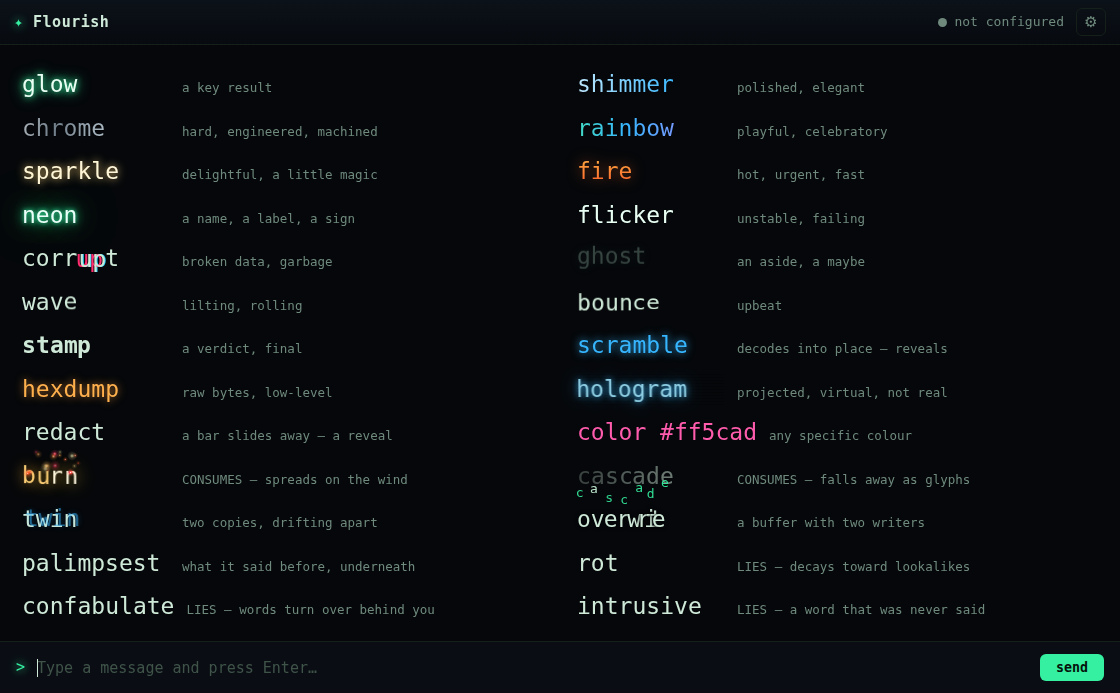
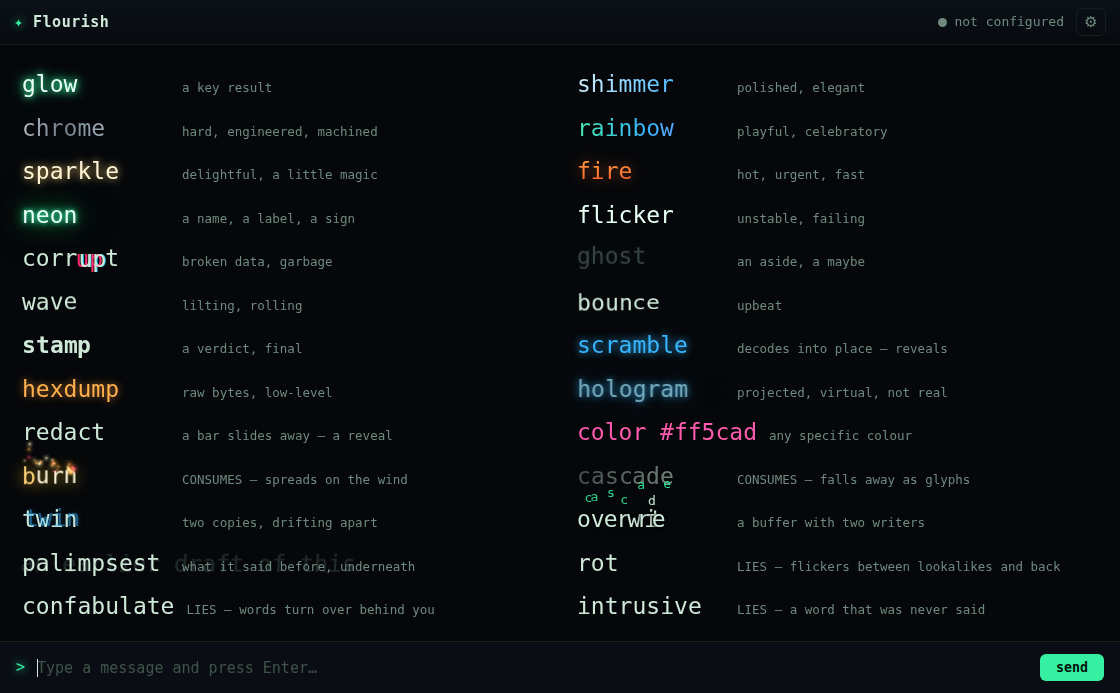
rot: text that won't sit still, instead of text that dies
Jim: "i hate the disintegrating text, change it for similar characters
that flicker back and fourth".

rot was a decay. Every character walked a one-way chain toward '.'
(a → o → c → .) dimming toward the background at each step, so a
paragraph didn't wobble — it eroded into punctuation and then into
nothing. The shelf-life reading was deliberate, but watching a line
crumble is the part nobody liked.

Now each character flicks between its own lookalikes and back —
o↔0, l↔1, b↔6 — a few fast flips, then it lands on the truth. Never
touches colour, never changes length, always ends as written.

  ROT_CHAINS -> ROT_GROUPS: one-way chains become closed families of
  glyphs grouped by shape. The chains had to terminate, so rotNext /
  rotDepth / rotTerminates / ROT_MAX_DEPTH existed purely to prove no
  cycle could hang a rAF loop. A flicker IS a cycle, so all of it is
  gone; what replaces it is rotVariants() plus a test that the groups
  partition (a glyph in two families would read as the word changing
  rather than the letter twitching).

  The guard is untouched. A transient wrong glyph on a command is
  still a lie, so mutableMask/MUTABLE_REJECT still freeze paths,
  flags and backticked code.

fx-shots verified the OLD contract and had quietly inverted: it called
before === after a dead effect, which is now exactly what a working rot
looks like. It polls through the flicker instead, and checks both that
the line moves and that it comes back.
[…]

diff --git a/src/flourish.js b/src/flourish.js
@@ -183,93 +183,56 @@
     return at;
   }
 
-  // ---- rot: characters decaying toward lookalikes ----
+  // ---- rot: characters flickering between lookalikes ----
 
-  // Each character's decay path, one step at a time, ending at a full stop.
-  // The chains are built on SHAPE, not on meaning: every step has to be a glyph
-  // the reader could plausibly have misread the previous one as, or the effect
-  // reads as corruption (which `corrupt` already does, loudly) rather than as
-  // text going soft while you weren't looking.
+  // Glyphs grouped by SHAPE: every member of a group is one the reader could
+  // plausibly misread another member as. Shape, not meaning — a swap that isn't
+  // a lookalike reads as corruption (which `corrupt` already does, loudly)
+  // rather than as one character failing to sit still.
   //
-  // Everything converges on '.' rather than on ' '. A rotted line has to keep
-  // its shape — holes would reflow the paragraph, and a period is the smallest
-  // mark that still holds a character's box.
+  // These replace a set of one-way decay chains. Every character used to walk
+  // down its chain toward '.', dimming as it went, so a paragraph didn't wobble
+  // — it eroded into punctuation and then into the background. rot now picks a
+  // lookalike, holds it for a beat, and puts the true character back, which
+  // makes the groups deliberately CYCLIC. There is no terminal glyph left to
+  // reach, so there is nothing to prove terminates and nothing to bottom out
+  // at; a character is never anywhere it can't come back from.
   //
-  // Every chain has to terminate, and the digits are where that's easy to get
-  // wrong: shape-wise `b`→`6` and `6`→`b` are both honest, but together they're
-  // a cycle, and a cycle here is a character that never stops changing inside a
-  // rAF loop. The letters step toward the digits; the digits only ever step
-  // toward round shapes or straight to a stop. rotTerminates() proves it.
-  const ROT_CHAINS = {
-    a: 'oc.', b: '6o.', c: 'r.', d: 'cl.', e: 'cr.', f: 'r.', g: '9o.',
-    h: 'nr.', i: 'l.', j: 'i.', k: 'x.', l: '|.', m: 'nr.', n: 'r.',
-    o: 'c.', p: 'o.', q: 'g.', r: '.', s: '5.', t: 'fr.', u: 'v.',
-    v: '.', w: 'v.', x: '.', y: 'v.', z: '2.',
-    A: '4.', B: '8.', C: 'c.', D: 'O.', E: 'F.', F: 'r.', G: '6.',
-    H: 'n.', I: 'l.', J: 'i.', K: 'x.', L: '|.', M: 'nn.', N: 'n.',
-    O: '0.', P: 'F.', Q: 'O.', R: 'F.', S: '5.', T: 'r.', U: 'v.',
-    V: 'v.', W: 'v.', X: 'x.', Y: 'v.', Z: '2.',
-    '0': 'o.', '1': '|.', '2': '.', '3': '>.', '4': 'l.', '5': '.',
-    '6': 'o.', '7': '/.', '8': 'o.', '9': 'o.',
-  };
+  // Each group is a closed set and the groups don't overlap — a character has
+  // exactly one family it wobbles inside. The partition is what the test checks,
+  // since a glyph in two groups would flicker between families and read as the
+  // word changing rather than the letter twitching.
+  const ROT_GROUPS = [
+    'aoce0O',    // round and open
+    'il1|IjJ',   // thin strokes
+    'nmhr',      // an arch on a stem
+    'uvwyV',     // the V shapes
+    'bdpq69g',   // a bowl on a stem, in every rotation
+    't7f',       // crossed strokes
+    's5S', 'z2Z', '38B', '4A', 'MW', 'xX', 'kK', 'CG', 'EF', 'DQ',
+    'LT', 'NH', 'RP', 'UY',
+  ];
+
+  // ch -> the other glyphs in its group, precomputed. A character in no group
+  // (punctuation, emoji, anything non-Latin) maps to '' and simply never
+  // flickers, the same way it previously never decayed — rot on a line of CJK
+  // quietly does nothing rather than throwing inside a timer.
+  const ROT_VARIANTS = (function () {
+    const m = {};
+    for (const g of ROT_GROUPS) {
+      for (const ch of g) {
+        m[ch] = g.split('').filter((o) => o !== ch).join('');
+      }
+    }
+    return m;
+  })();
 
   /**
-   * One step of decay. Returns the next glyph along `ch`'s chain, or the same
-   * character if it has nowhere left to go ('.' and whitespace are terminal).
-   *
-   * Pure and total: an unmapped character (punctuation, emoji, anything
-   * non-Latin) is its own terminal state rather than an error, so rot applied to
-   * a line of CJK or a shrug emoticon quietly does nothing instead of throwing
-   * inside a rAF loop.
+   * The glyphs `ch` can flicker to, as a string, or '' if it has no lookalikes.
+   * Pure and total; never returns `ch` itself, so a swap is always visible.
    */
-  function rotNext(ch) {
-    const chain = ROT_CHAINS[ch];
-    if (chain) return chain[0];
-    // Mid-chain: find the character in the chain it belongs to and step along.
-    for (const k in ROT_CHAINS) {
-      const c = ROT_CHAINS[k];
-      const at = c.indexOf(ch);
-      if (at !== -1 && at < c.length - 1) return c[at + 1];
-    }
-    return ch;
-  }
-
-  // No chain is anywhere near this long; it's a backstop so a future edit that
-  // reintroduces a cycle degrades to a bounded walk instead of hanging.
-  const ROT_MAX_DEPTH = 12;
-
-  /**
-   * How many steps `ch` has left before it bottoms out. Used to size the
-   * effect's lifetime so it stops scheduling frames once everything is spent.
-   */
-  function rotDepth(ch) {
-    let n = 0;
-    let c = ch;
-    for (let i = 0; i < ROT_MAX_DEPTH; i++) {
-      const nx = rotNext(c);
-      if (nx === c) break;
-      c = nx; n++;
-    }
-    return n;
-  }
-
-  /**
-   * Does `ch` reach a terminal glyph without revisiting one? False means the
-   * chains contain a cycle, which the test asserts against for every character
-   * in the table — the failure mode is a rAF loop that never settles, and it's
-   * invisible until someone rots the one word that contains the bad letter.
-   */
-  function rotTerminates(ch) {
-    const seen = new Set();
-    let c = ch;
-    for (let i = 0; i < ROT_MAX_DEPTH; i++) {
-      if (seen.has(c)) return false;
-      seen.add(c);
-      const nx = rotNext(c);
-      if (nx === c) return true;
-      c = nx;
-    }
-    return false;
+  function rotVariants(ch) {
+    return ROT_VARIANTS[ch] || '';
   }
 
   // ---- confabulate: words that change behind you ----
@@ -565,7 +528,7 @@
     MUTATING_SPANS, SCRIPTED_SPANS, RENDERER_EFFECTS,
     PALETTES, SIZES, parseArgs,
     WIND_STRENGTH, parseWind, planBurn,
-    ROT_CHAINS, rotNext, rotDepth, rotTerminates,
+    ROT_GROUPS, ROT_VARIANTS, rotVariants,
     CONFAB_PAIRS, planConfab, overwriteShift, mutableMask,
   };
 });

diff --git a/src/textfx.js b/src/textfx.js
@@ -286,41 +286,66 @@
     // ---- the unreliable spans ----
 
     /*
-     * rot — characters decaying toward lookalikes, slowly, in place.
+     * rot — characters flickering between lookalikes, in place.
      *
-     * Scheduled with setTimeout rather than rAF, and that's the whole design:
-     * this effect is measured in tens of seconds and touches a character maybe
-     * four times in its life. A rAF loop would wake 60 times a second for
-     * ~30 seconds to do nothing, per span, forever — text has a shelf life here,
-     * so the spans don't end, they just run out of steps.
+     * Scheduled with setTimeout rather than rAF, and that's still the whole
+     * design: a character twitches a handful of times across the span's life and
+     * sits perfectly still between twitches, so a rAF loop would wake 60 times a
+     * second to do nothing. The spans don't end, they run out of twitches.
+     *
+     * A twitch is a there-and-back: the character flicks between its true glyph
+     * and a lookalike a few times, fast, and LANDS ON THE TRUTH. Two properties
+     * fall out of that, and both are the point:
+     *
+     *   Nothing is ever lost. This used to be a decay — each character stepped
+     *   down a chain toward '.' and dimmed toward the background as it went, so
+     *   a paragraph you came back to had crumbled. Now every character is either
+     *   correct or one beat away from being correct again, and rot never touches
+     *   colour at all. The text is unstable, not dying.
+     *
+     *   It settles. The flickering is bounded (TWITCHES per character), so a
+     *   span goes quiet on its own and the final state is exactly what was
+     *   written — which also means no timer outlives the effect, per span,
+     *   forever, in a transcript that only grows.
      */
     _rot(span, chars, args) {
       const F = window.Flourish;
       const mutable = this._mutable(chars);
-      const rest = restColor();
-      // Slower with `slow`, quicker with `fast` — the default is tuned so a
-      // paragraph looks untouched while you read it and wrong when you come back.
+      // Slower with `slow`, quicker with `fast`. Scales how OFTEN a character
+      // twitches, never how fast the flicker itself runs — the flick is quick
+      // because that's what makes it read as a glitch and not as a transition.
       const a = String(args || '').toLowerCase();
       const scale = a.includes('fast') ? 0.35 : (a.includes('slow') ? 2.4 : 1);
-      const FIRST = 4200 * scale;   // nothing moves while the reader is still on the line
-      const STEP = 3400 * scale;
+      const FIRST = 1600 * scale;   // let the reader land on the line first
+      const GAP = 2400 * scale;     // between one character's twitches
+      const FLICK = 70;             // one flick, there or back
+      const TWITCHES = 5;
 
       for (let i = 0; i < chars.length; i++) {
         if (!mutable.has(i)) continue;
         const c = chars[i];
-        let left = F.rotDepth(c.textContent);
-        if (!left) continue;
-        const tick = () => {
-          const next = F.rotNext(c.textContent);
-          if (next === c.textContent) return;       // spent
-          c.textContent = next;
-          // Each step dims a little toward ash. Colour only, never opacity: a
-          // rotted character is exactly as legible as the glyph it rotted into.
-          const k = 1 - left / (left + 1);
-          c.style.color = hex(mix(parseHex('#cfe9d8'), rest, Math.min(1, k + 0.25)));
-          if (--left > 0) setTimeout(tick, STEP + rand(-700, 700) * scale);
+        const truth = c.textContent;
+        const opts = F.rotVariants(truth);
+        if (!opts) continue;        // no lookalikes: leave it alone entirely
+        let left = TWITCHES;
+
+        const burst = () => {
+          let flicks = 3 + ((Math.random() * 4) | 0);
+          const flip = () => {
+            if (flicks-- <= 0) {
+              c.textContent = truth;    // always lands on what was written
+              if (--left > 0) setTimeout(burst, GAP + rand(0, GAP));
+              return;
+            }
+            c.textContent = c.textContent === truth
+              ? opts[(Math.random() * opts.length) | 0]
+              : truth;
+            setTimeout(flip, FLICK + rand(0, FLICK));
+          };
+          flip();
         };
-        setTimeout(tick, FIRST + rand(0, 2600) * scale);
+        // Stagger the start wide, so the line never twitches in unison.
+        setTimeout(burst, FIRST + rand(0, 5200) * scale);
       }
     }
 

diff --git a/test/unreliable.test.js b/test/unreliable.test.js
@@ -5,9 +5,10 @@
  * tested here is mostly the ways they could misbehave rather than the ways they
  * look:
  *
- *   - rot's chains have to terminate. A cycle is a character that keeps
- *     changing forever inside a rAF loop, and it's invisible until someone rots
- *     the one word containing the bad letter.
+ *   - rot's groups have to partition. A glyph in two groups would flicker
+ *     between families, which reads as the word changing rather than as the
+ *     letter twitching, and it's invisible until someone rots the one word
+ *     containing the shared letter.
  *   - confabulate has to leave the sentence grammatical and has to be able to
  *     find its own way back — the effect is a reader who looks twice, so the
  *     table is walked in both directions.
@@ -60,38 +61,50 @@ test('intrusive carries its word through as args', () => {
 
 // ---------- rot ----------
 
-test('every rot chain terminates', () => {
-  // The whole table, plus every glyph that appears anywhere inside a chain —
-  // the mid-chain glyphs are the ones that don't get their own key and so are
-  // easiest to leave dangling in a loop.
-  const glyphs = new Set(Object.keys(F.ROT_CHAINS));
-  for (const k of Object.keys(F.ROT_CHAINS)) for (const c of F.ROT_CHAINS[k]) glyphs.add(c);
-  for (const g of glyphs) {
-    assert.ok(F.rotTerminates(g), `rot chain from '${g}' does not terminate`);
+test('rot groups partition — no glyph belongs to two families', () => {
+  const seen = new Map();
+  for (const g of F.ROT_GROUPS) {
+    for (const ch of g) {
+      assert.ok(!seen.has(ch), `'${ch}' is in both '${seen.get(ch)}' and '${g}'`);
+      seen.set(ch, g);
+    }
   }
 });
 
-test('rot bottoms out at a full stop, keeping the character box', () => {
-  for (const start of ['e', 'B', 'q', '8', 'M']) {
-    let c = start;
-    for (let i = 0; i < 12; i++) { const n = F.rotNext(c); if (n === c) break; c = n; }
-    assert.strictEqual(c, '.', `'${start}' rotted to '${c}', expected '.'`);
+test('rot never offers a character itself as a swap', () => {
+  // A swap that isn't visible is a twitch the reader never sees, and it burns
+  // one of the character's few twitches doing nothing.
+  for (const g of F.ROT_GROUPS) {
+    for (const ch of g) {
+      assert.ok(!F.rotVariants(ch).includes(ch), `'${ch}' can swap to itself`);
+      assert.strictEqual(F.rotVariants(ch).length, g.length - 1);
+    }
   }
 });
 
-test('rot leaves characters it has no chain for alone', () => {
-  // Punctuation, whitespace and anything non-Latin are their own terminal
-  // state: rot on a line of CJK should quietly do nothing, not throw.
+test('rot covers the letters English is actually made of', () => {
+  // The effect is meaningless on a paragraph if the common letters can't move.
+  for (const ch of 'etaoinsrhldcum') {
+    assert.ok(F.rotVariants(ch).length > 0, `'${ch}' has no lookalikes`);
+  }
+});
+
+test('rot leaves characters it has no group for alone', () => {
+  // Punctuation, whitespace and anything non-Latin have no lookalikes: rot on a
+  // line of CJK should quietly do nothing, not throw.
   for (const ch of [' ', '\n', '—', '好', '🙂', '.']) {
-    assert.strictEqual(F.rotNext(ch), ch);
-    assert.strictEqual(F.rotDepth(ch), 0);
+    assert.strictEqual(F.rotVariants(ch), '');
   }
 });
 
-test('rotDepth counts the steps actually available', () => {
-  assert.strictEqual(F.rotDepth('r'), 1);      // r → .
-  assert.strictEqual(F.rotDepth('e'), 3);      // e → c → r → .
-  assert.ok(F.rotDepth('a') > F.rotDepth('c')); // longer chains take longer to spend
+test('rot swaps stay inside the lookalike family', () => {
+  // The guarantee that makes this an unstable character rather than a different
+  // word: whatever a glyph flickers to, a reader could have misread it as.
+  assert.ok(F.rotVariants('o').includes('0'));
+  assert.ok(F.rotVariants('l').includes('1'));
+  assert.ok(F.rotVariants('b').includes('6'));
+  assert.ok(!F.rotVariants('o').includes('x'));
+  assert.ok(!F.rotVariants('e').includes('.'));   // nothing decays to punctuation now
 });
 
 // ---------- confabulate ----------

diff --git a/tools/fx-shots.js b/tools/fx-shots.js
@@ -82,7 +82,7 @@ const SHEET = [
   ['twin', 'two copies, drifting apart'],
   ['overwrite', 'a buffer with two writers'],
   ['palimpsest', 'what it said before, underneath'],
-  ['rot', 'LIES — decays toward lookalikes'],
+  ['rot', 'LIES — flickers between lookalikes and back'],
   ['confabulate', 'LIES — words turn over behind you'],
   ['intrusive', 'LIES — a word that was never said'],
 ];
@@ -268,20 +268,38 @@ async function run() {
   const textOf = (sel) => win.webContents.executeJavaScript(
     `(document.querySelector('${sel}') || {}).innerText || ''`);
 
-  console.log('rot (a sequence — the line should decay in place):');
+  // rot needs BOTH halves checked, and the old version of this harness only
+  // checked one. It compared the line before and after and called them being
+  // equal a dead effect — true when rot was a one-way decay, and exactly
+  // backwards now: rot always lands on the truth, so equal-at-the-end is the
+  // effect working. Sampling only the ends can no longer tell a working rot from
+  // one that never fired, so poll THROUGH the flicker and check the landing.
+  console.log('rot (the line should flicker between lookalikes and come back):');
   await reset();
-  await layout('rot', 'this line will not survive being read twice', 'fast');
-  const rotBefore = await textOf('.fx-rot');
+  await layout('rot', 'this line will not sit still while you read it', 'fast');
+  const rotTruth = await textOf('.fx-rot');
   await shoot(win, 'rot-1-fresh');
-  await wait(3000);
-  await shoot(win, 'rot-2-going');
-  await wait(5000);
-  await shoot(win, 'rot-3-spent');
-  const rotAfter = await textOf('.fx-rot');
-  console.log('    before:', JSON.stringify(rotBefore));
-  console.log('    after :', JSON.stringify(rotAfter));
-  if (rotBefore === rotAfter) console.log('  ! rot changed NOTHING — the effect is dead');
-  if (rotBefore.length !== rotAfter.length) console.log('  ! rot changed the LENGTH — the line will have reflowed');
+
+  const seen = new Set();
+  for (let i = 0; i < 40; i++) {
+    seen.add(await textOf('.fx-rot'));
+    if (i === 12) await shoot(win, 'rot-2-flickering');
+    await wait(250);
+  }
+  await wait(4000);                       // let every character spend its twitches
+  await shoot(win, 'rot-3-settled');
+  const rotSettled = await textOf('.fx-rot');
+
+  const wrongStates = [...seen].filter((s) => s !== rotTruth);
+  console.log('    truth   :', JSON.stringify(rotTruth));
+  console.log('    settled :', JSON.stringify(rotSettled));
+  console.log('    distinct wrong states seen mid-flicker:', wrongStates.length);
+  if (wrongStates[0]) console.log('    e.g.    :', JSON.stringify(wrongStates[0]));
+  if (!wrongStates.length) console.log('  ! rot never changed ANYTHING — the effect is dead');
+  if (rotSettled !== rotTruth) console.log('  ! rot did not come back — settled text is not what was written');
+  for (const s of seen) {
+    if (s.length !== rotTruth.length) { console.log('  ! rot changed the LENGTH — the line will have reflowed'); break; }
+  }
 
   console.log('confabulate (the words should turn over on their own):');
   await reset();

diff --git a/src/prompt.js b/src/prompt.js
@@ -102,10 +102,11 @@ per reply, and never on a fact, an instruction, a path, or a result.
 
 UNRELIABLE SPANS — these CHANGE THE TEXT after the reader has read it. Every
 other effect is honest: a glowing command is still the command. These are not.
-  {{fx:rot}}…{{/fx:rot}}                  characters decay toward lookalikes, slowly,
-                                          in place — text with a shelf life, something
-                                          that stops being what you wrote. Takes
-                                          slow/fast.
+  {{fx:rot}}…{{/fx:rot}}                  characters flicker between lookalikes and
+                                          back — o↔0, l↔1, b↔6. Never fades, never
+                                          settles anywhere but the truth: text that
+                                          won't sit still, not text that's dying.
+                                          Takes slow/fast.
   {{fx:confabulate}}…{{/fx:confabulate}}  words quietly turn over behind the reader:
                                           never↔always, you↔I, true↔false. Never
                                           announces. The reader's only evidence is